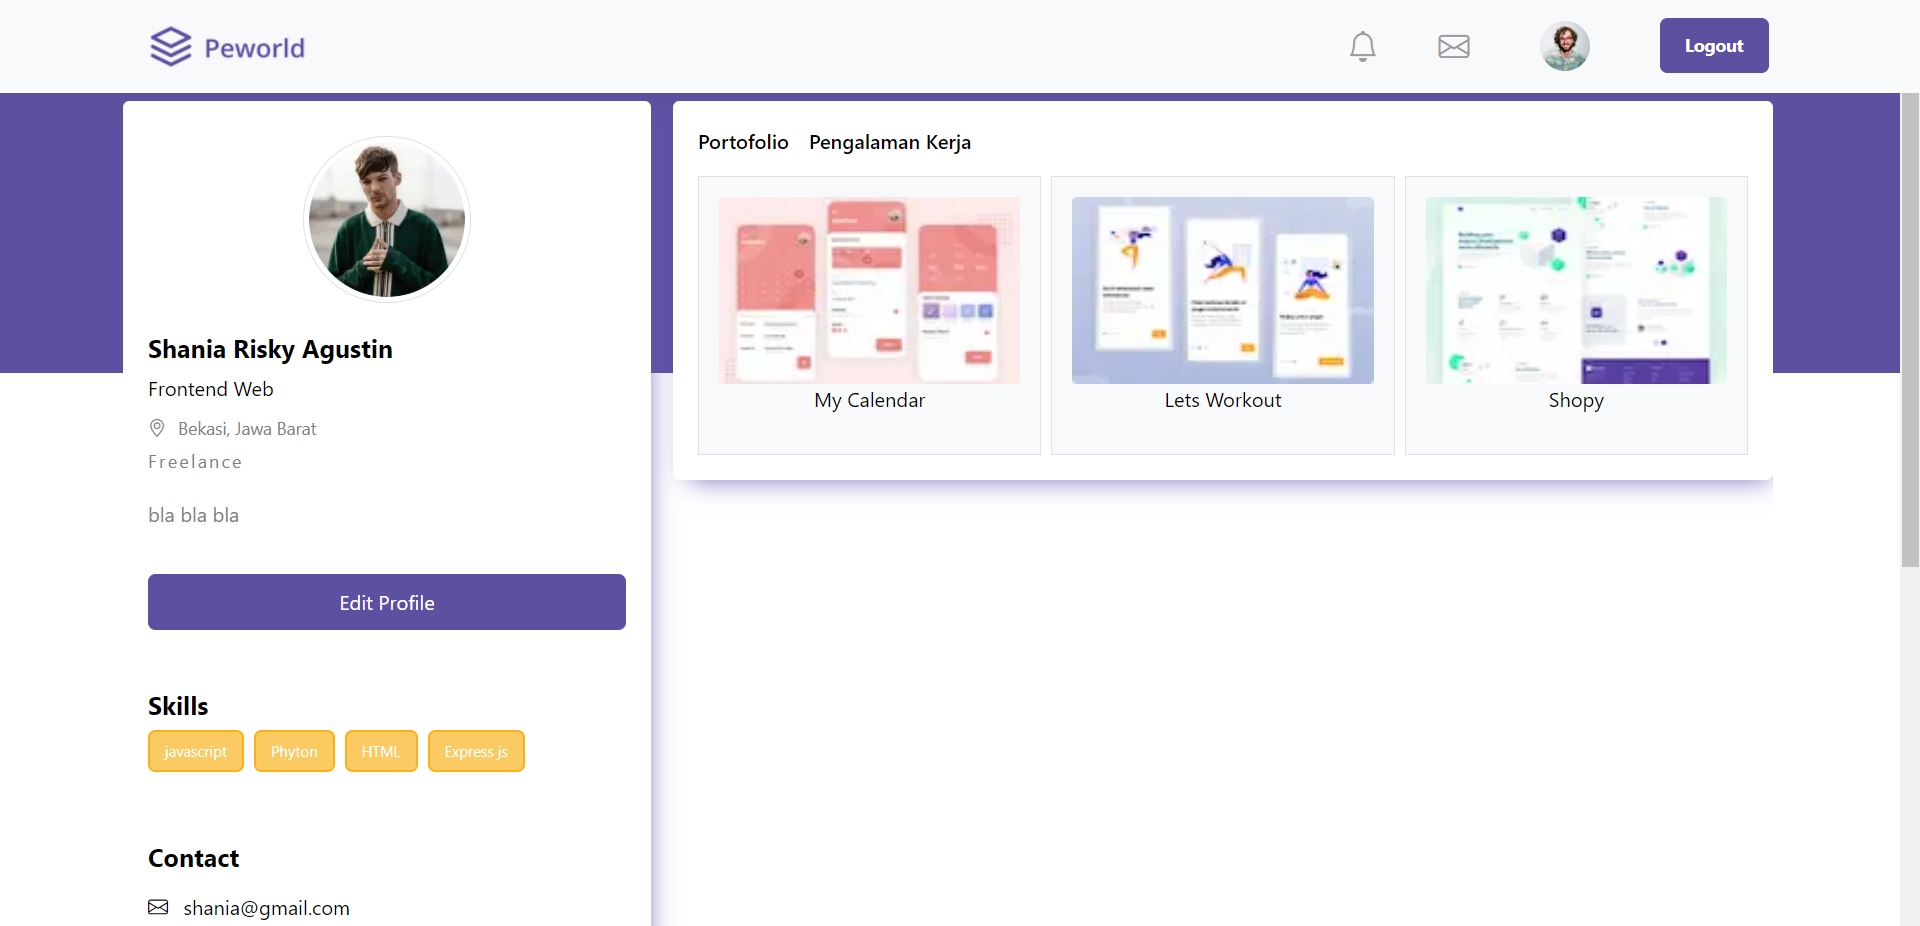
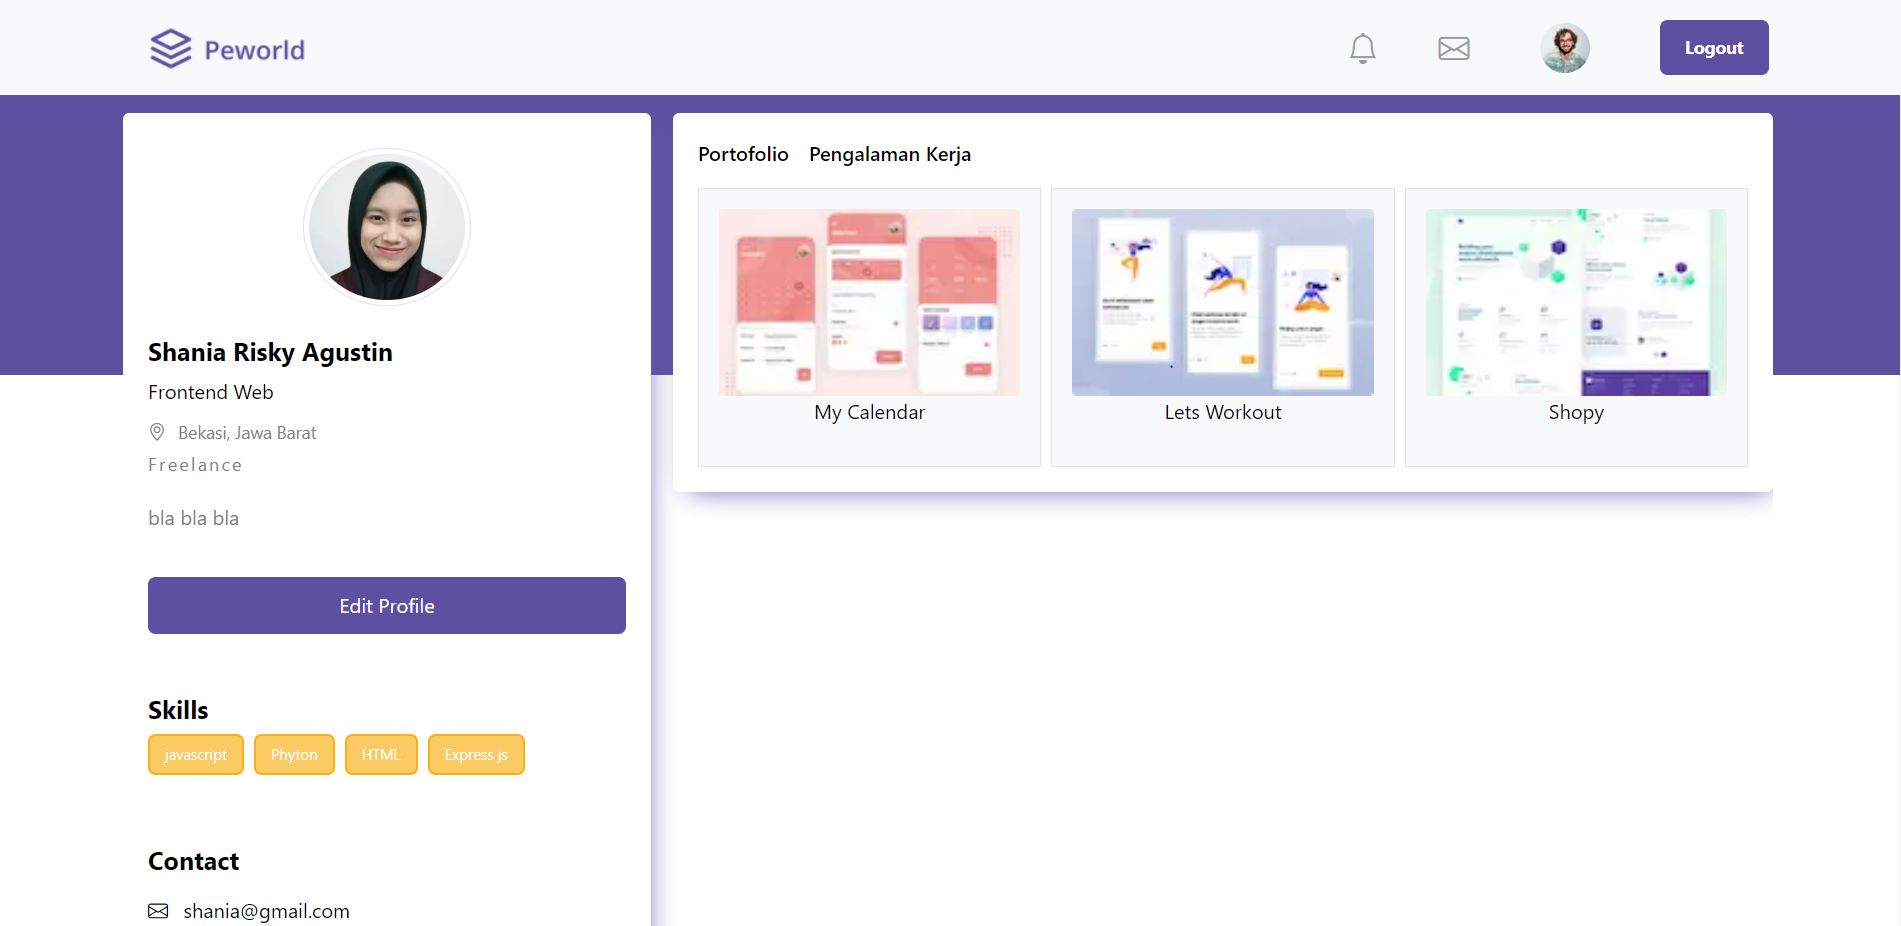
new update readme

diff --git a/src/pages/profile/perusahaan/index.jsx b/src/pages/profile/perusahaan/index.jsx
@@ -3,7 +3,7 @@ import SectionPage from '../../../components/Section/LandingPage/SectionPage';
 import React from 'react';
 import style from '../../../styles/company.module.css';
 import Image from 'next/image';
-import img from '../../../assets/image/Profil.png';
+import logo from '../../../assets/image/logo_perusahaan.png';
 import Link from 'next/link';
 
 const CompanyProfile = () => {
@@ -14,7 +14,7 @@ const CompanyProfile = () => {
           <div className="row justify-content-center">
             <div className={`col-11 ${style.colRow}`}>
               <div className={`${style['box-imgBackground']} d-flex justify-content-end align-items-end`} style={{ backgroundColor: '#ffffff' }}>
-                <Image src={img} className={`img-fluid ${style.img}`}></Image>
+                <Image src={logo} className={`img-fluid ${style.img}`}></Image>
                 <Link href={`/edit-profile/perusahaan`} className="pe-4 pb-2">
                   Edit Profile
                 </Link>

diff --git a/src/pages/edit-profile/pekerja/[id].jsx b/src/pages/edit-profile/pekerja/[id].jsx
@@ -4,6 +4,7 @@ import style from '../../../styles/EditProfile.module.css';
 import React from 'react';
 import Image from 'next/image';
 import img from '../../../assets/image/Profil.png';
+import foto from '../../../assets/image/foto.png';
 import InputFormEdit from '../../../components/Form/InputFormEdit/index';
 import { useRouter } from 'next/router';
 import axios from 'axios';
@@ -230,7 +231,7 @@ const EditProfile = () => {
               <div className={`col-12 ${style.rowOneLeft}`}>
                 <div className="profileDesc">
                   <div className={` mx-auto pb-4 pt-2 ${style.picture}`}>
-                    <Image src={img} className="img-thumbnail rounded-circle"></Image>
+                    <Image src={foto} className="img-thumbnail rounded-circle"></Image>
                   </div>
                   <h5 className="fw-bolder">{worker?.name}</h5>
                   <span className={style.work}>{worker?.jobdesk}</span>

diff --git a/src/pages/profile/pekerja/[id].jsx b/src/pages/profile/pekerja/[id].jsx
@@ -4,6 +4,7 @@ import Image from 'next/image';
 import style from '../../../styles/Profile.module.css';
 import img from '../../../assets/image/Profil.png';
 import img1 from '../../../assets/image/porto-2.png';
+import foto from '../../../assets/image/foto.png';
 import MainProfile from '@/Components/LayoutProfile/MainProfile';
 import LeftSide from '@/Components/LayoutProfile/LeftSide';
 import RightSide from '@/Components/LayoutProfile/RightSide';
@@ -107,7 +108,7 @@ const Profile = () => {
           <LeftSide>
             <div className="profileDesc">
               <div className={` mx-auto pb-4 pt-2 ${style.picture}`}>
-                <Image src={img} className="img-thumbnail rounded-circle"></Image>
+                <Image src={foto} className="img-thumbnail rounded-circle"></Image>
               </div>
               <h5 className="fw-bolder">{worker?.name}</h5>
               <span className={style.work}>{worker?.jobdesk}</span>

diff --git a/src/pages/home/csr.jsx b/src/pages/home/csr.jsx
@@ -2,8 +2,9 @@ import Footer from '@/components/Footer/Footer';
 import NavbarHome from '@/components/Navbar/NavbarHome';
 import style from '../../styles/Home.module.css';
 import profil from '../../assets/image/Profil.png';
-// import harry from '../../assets/image/harry.png';
-// import nial from '../../assets/image/nial.png';
+import harry from '../../assets/image/harry.png';
+import nial from '../../assets/image/nial.png';
+import foto from '../../assets/image/foto.png';
 import Image from 'next/image';
 import axios from 'axios';
 import { useEffect, useState } from 'react';
